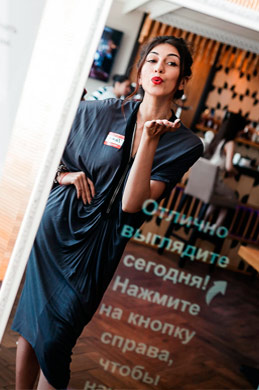
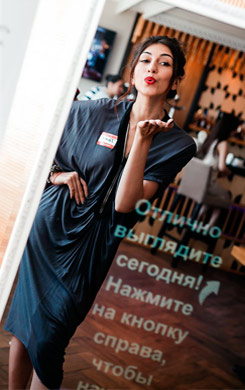
modified fotocub

diff --git a/css/main.css b/css/main.css
@@ -276,7 +276,7 @@ border-left-width: 10px;*/
 /* 6. START Mini slider s3 */
 .sliderS3	{
 	background-color: transparent;
-	top: 70px;
+	top: 10px;
 	height: 100%;
 	width: 100%;
 	position: relative;
@@ -285,7 +285,7 @@ border-left-width: 10px;*/
 .sliderS3 img {
 	width: 100%;
 	height: 100%;
-    max-width: 350px;
+    max-width: 450px;
 }
 /* 6. END Mini slider s3 */
 /* 7. START FOTOPRINTER ARTICLE */
